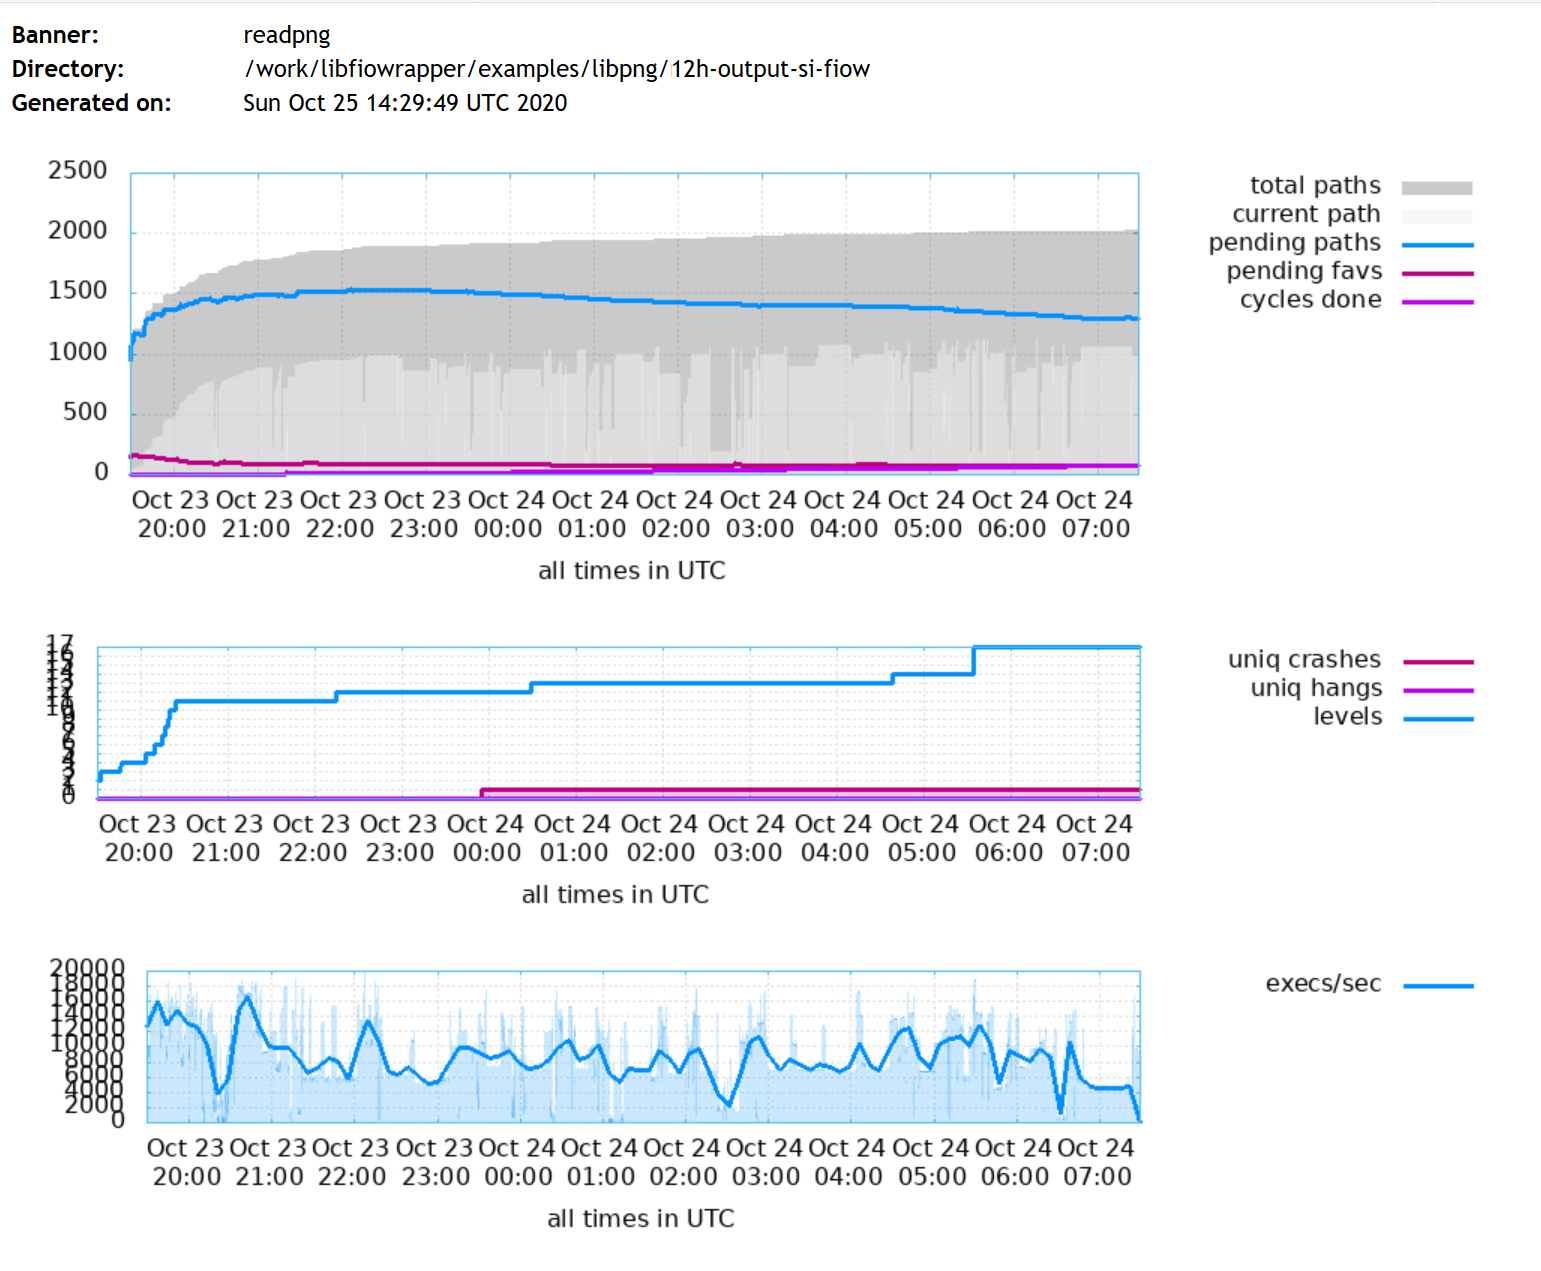
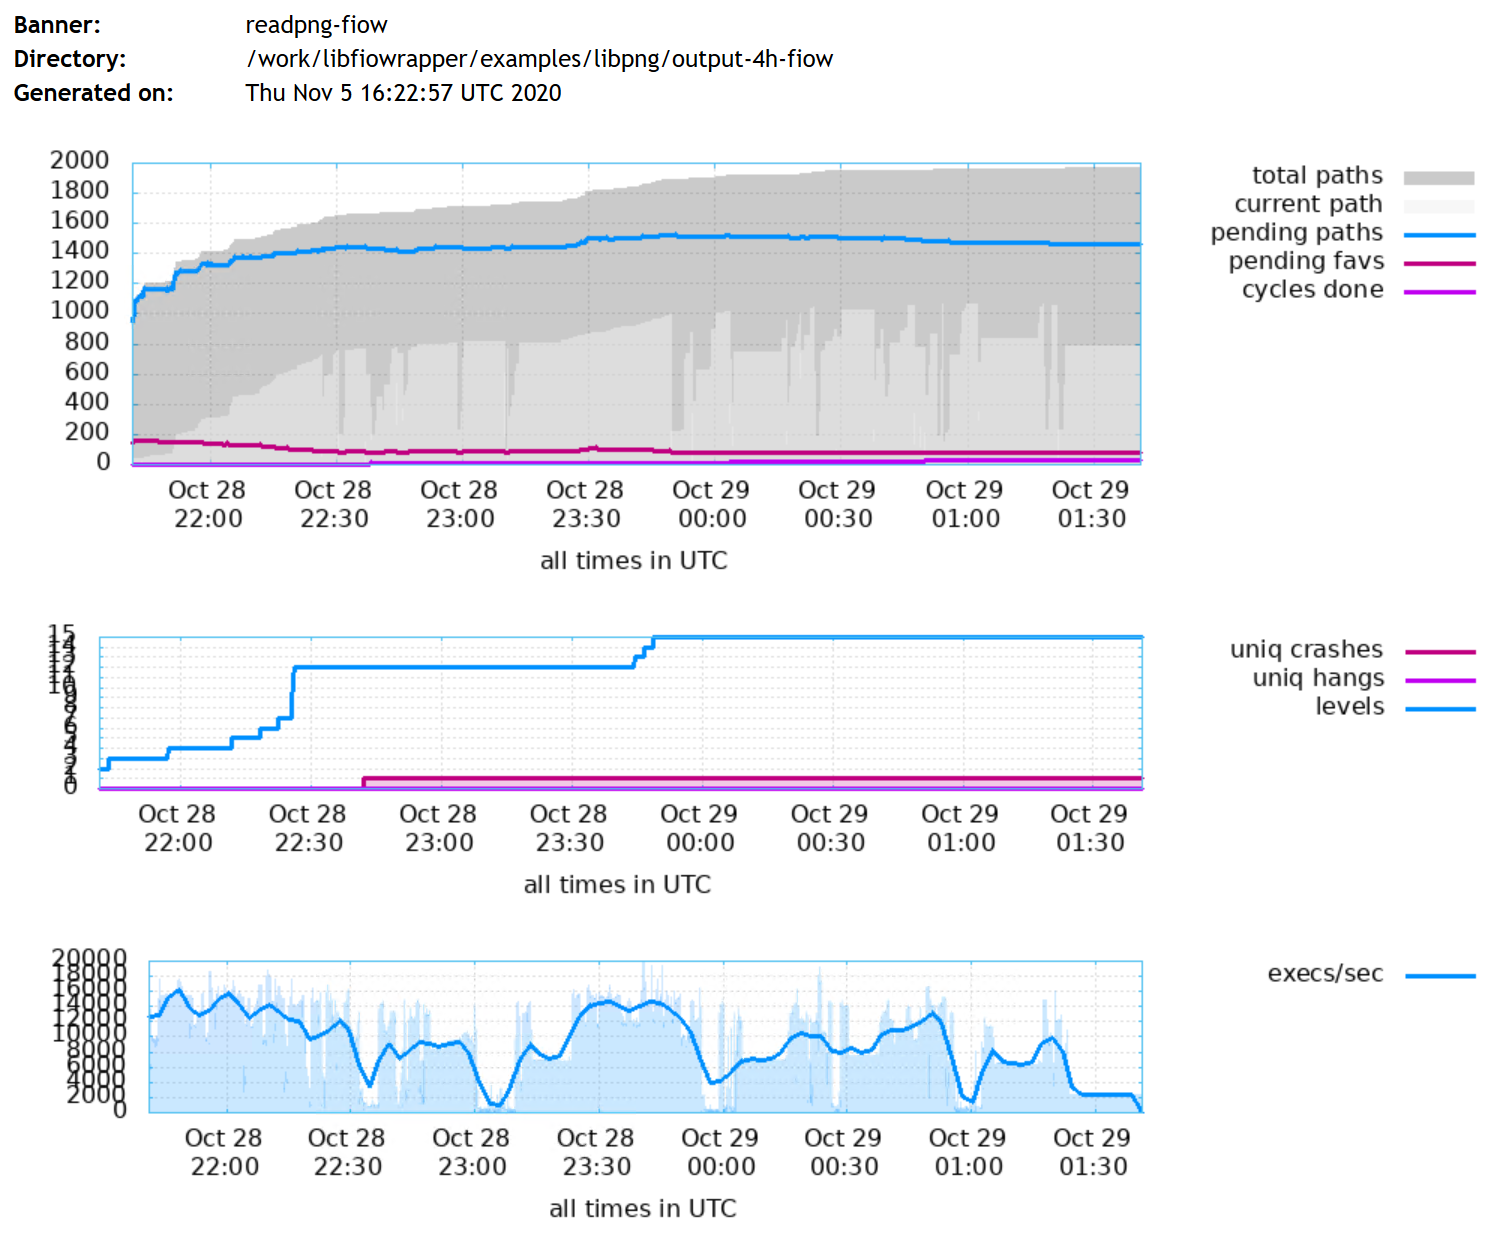
Changed the libpng example to build better performance test.

diff --git a/examples/libpng/readpng-fiow.c b/examples/libpng/readpng-fiow.c
@@ -55,6 +55,7 @@
   /*
    * Modified by: Marek Zmysłowski
    * Copyrights: 2020
+   * This file contains code to be fuzzed in persistent mode with libfiowrapper.
    */
 
 #include <stdio.h>
@@ -64,6 +65,10 @@
 
 #include "png.h"        /* libpng header; includes zlib.h */
 #include "readpng.h"    /* typedefs, common macros, public prototypes */
+
+__AFL_FUZZ_INIT();
+extern void set_memory_size(ssize_t size);
+extern void set_memory_ptr(unsigned char *buffer);
 
 /* future versions of libpng will provide this macro: */
 #ifndef png_jmpbuf
@@ -316,6 +321,12 @@ int main(int argc, char *argv[])
     uch red, green, blue;
     int pChannels;
     ulg pRowbytes;
+    // Set the memory pointer
+    set_memory_ptr(__AFL_FUZZ_TESTCASE_BUF);
+    while (__AFL_LOOP(65535))
+    {
+        // Set the file size.
+        set_memory_size(__AFL_FUZZ_TESTCASE_LEN);
         image_data = NULL;
         infile = fopen(argv[1], "r");
         if (!readpng_init(infile, &w, &h)) {
@@ -324,4 +335,5 @@ int main(int argc, char *argv[])
             readpng_cleanup(1);
         }
         fclose(infile);
+    }
 }

diff --git a/examples/libpng/readpng-pers.c b/examples/libpng/readpng-pers.c
@@ -55,6 +55,7 @@
   /*
    * Modified by: Marek Zmysłowski
    * Copyrights: 2020
+   * This file contains code to be fuzzed in persistent mode.
    */
 
 #include <stdio.h>
@@ -316,6 +317,8 @@ int main(int argc, char *argv[])
     uch red, green, blue;
     int pChannels;
     ulg pRowbytes;
+    while (__AFL_LOOP(65535))
+    {
         image_data = NULL;
         infile = fopen(argv[1], "r");
         if (!readpng_init(infile, &w, &h)) {
@@ -324,4 +327,5 @@ int main(int argc, char *argv[])
             readpng_cleanup(1);
         }
         fclose(infile);
+    }
 }

diff --git a/Performance.md b/Performance.md
@@ -1,48 +1,79 @@
 # Performance
-## Test Case:
-The performance test was build based on the libpng library. The difference between two testing example are only few lines added. There is no change in rest of the code. The original file operation are not changed.
+The performance test was done on the libpng library with readpng console application. Original source code is available [here](./examples/libpng/readpng.c).
 
+## Setup
+For this test, two cases ware prepared. Original file was changed to be fuzzed in the persistent mode and the persistent mode with libfiowrapper. Following diff shows differences between the files. As it can be seen, only few addition lines were added for the libfiowrapper.
 ```
-/libfiowrapper$ diff ./examples/libpng/readpng-org.c ./examples/libpng/readpng.c
-67a68,71
-> __AFL_FUZZ_INIT();
-> extern void set_memory_size(ssize_t size);
-> extern void set_memory_ptr(unsigned char *buffer);
-> 
-318a323,327
->     // Set the memory pointer
->     set_memory_ptr(__AFL_FUZZ_TESTCASE_BUF);
->     while (__AFL_LOOP(65535)) {
->         // Set the file size.
->         set_memory_size(__AFL_FUZZ_TESTCASE_LEN);
-326a336
->     }
+/research/libfiowrapper/examples/libpng$ diff -u readpng-pers.c readpng-fiow.c
+--- readpng-pers.c      2020-11-02 22:58:56.207491235 +0100
++++ readpng-fiow.c      2020-11-02 23:07:21.736258287 +0100
+@@ -55,7 +55,7 @@
+   /*
+    * Modified by: Marek Zmysłowski
+    * Copyrights: 2020
+-   * This file contains code to be fuzzed in persistent mode.
++   * This file contains code to be fuzzed in persistent mode with libfiowrapper.
+    */
+ 
+ #include <stdio.h>
+@@ -66,6 +66,10 @@
+ #include "png.h"        /* libpng header; includes zlib.h */
+ #include "readpng.h"    /* typedefs, common macros, public prototypes */
+ 
++__AFL_FUZZ_INIT();
++extern void set_memory_size(ssize_t size);
++extern void set_memory_ptr(unsigned char *buffer);
++
+ /* future versions of libpng will provide this macro: */
+ #ifndef png_jmpbuf
+ #  define png_jmpbuf(png_ptr)   ((png_ptr)->jmpbuf)
+@@ -317,8 +321,12 @@
+     uch red, green, blue;
+     int pChannels;
+     ulg pRowbytes;
++    // Set the memory pointer
++    set_memory_ptr(__AFL_FUZZ_TESTCASE_BUF);
+     while (__AFL_LOOP(65535))
+     {
++        // Set the file size.
++        set_memory_size(__AFL_FUZZ_TESTCASE_LEN);
+         image_data = NULL;
+         infile = fopen(argv[1], "r");
+         if (!readpng_init(infile, &w, &h)) {
+```
+The following commands were used to build the executables:
+```
+afl-clang-fast readpng-fiow.c -o readpng-fiow ./libpng-code/afl-build/libpng16.a -lz -lm -L../../ -lfiowrapper -I./libpng-code/afl-build -I./libpng-code
+```
+```
+afl-clang-fast readpng-pers.c -o readpng-pers ./libpng-code/afl-build/libpng16.a -lz -lm -I./libpng-code/afl-build -I./libpng-code
 ```
 
 ## Results:
+There were 4 tests performed, each took 4 hours with the AFL++. In every case the same seed was used.  The following command was used:
+```
+afl-fuzz  -i ./input-png/ -o ./output  -s 1234 -V 14400 -m none -- ./readpng-fiow @@
 
-The test was run for 12 hours with AFL++ with the same seed. The result shows that the libfiowrapper is around 4 time faster than normal file fuzzing.
+afl-fuzz  -i ./input-png/ -o ./output  -s 1234 -V 14400 -m none -- ./readpng-pers @@
+```
+Here are the results:
 
-Below image presents the result of the experiment run in 12 hours with default settings and file fuzzing.
-|![Fuzzing with files](afl-si-12h.png)| 
+|   | Persistent Mode  | libfiowrapper  |
+|---|---|---|
+| Total execs (Avg) | 51,2M | 130M |
+| Total paths | 1798 | 1966 |
+| Total crashes | 6 (1 unique) | 6 (1 unique) |
+
+
+Here are the statistics from the example single run:
+
+|![Fuzzing with persistent mode only](afl-pers-stats.png)| 
 |:--:| 
-| *Image 1. Fuzzing with file* |
+| *Image 1. Fuzzing with persistent mode only* |
 
-
-Below image presents the result of the experiment run in 12 hours with libfiowrapper.
-|![Fuzzing with libfiowrapper](afl-fiow-si-12h.png)| 
+|![Fuzzing with persistent mode + libfiowrapper](afl-fiow-stats.png)| 
 |:--:| 
-| *Image 2. Fuzzing with libfiowrapper* |
+| *Image 2. Fuzzing with persistent mode + libfiowrapper - stats* |
 
 
-|![Fuzzing with files](afl-stats.png)| 
-|:--:| 
-| *Image 3. Fuzzing with file - stats* |
-
-|![Fuzzing with libfiowrapper](afl-fiow-stats.png)| 
-|:--:| 
-| *Image 4. Fuzzing with libfiowrapper - stats* |
-
-
-
-Run on: Linux 4.19.76-linuxkit #1 SMP x86_64
+The tests were performed inside docker container running Linux 4.19.76-linuxkit #1 SMP x86_64
